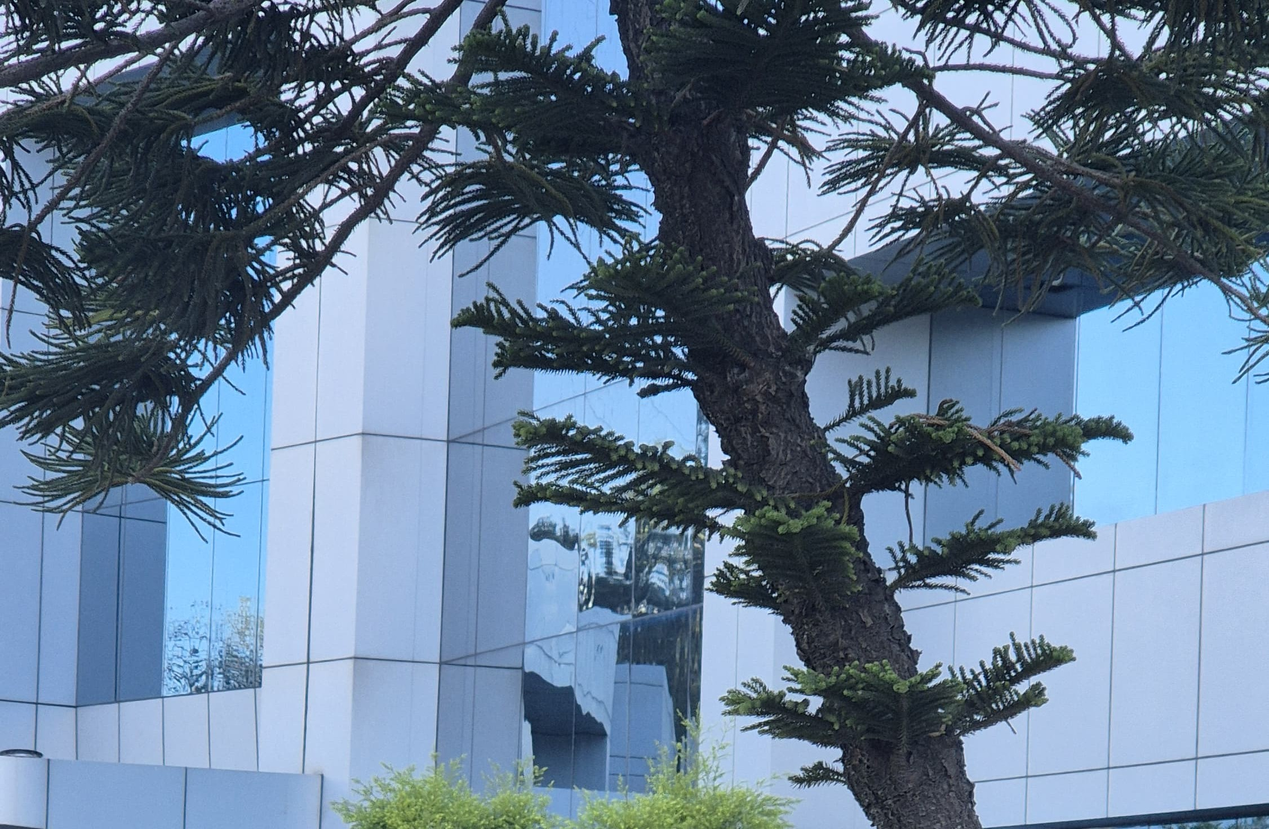
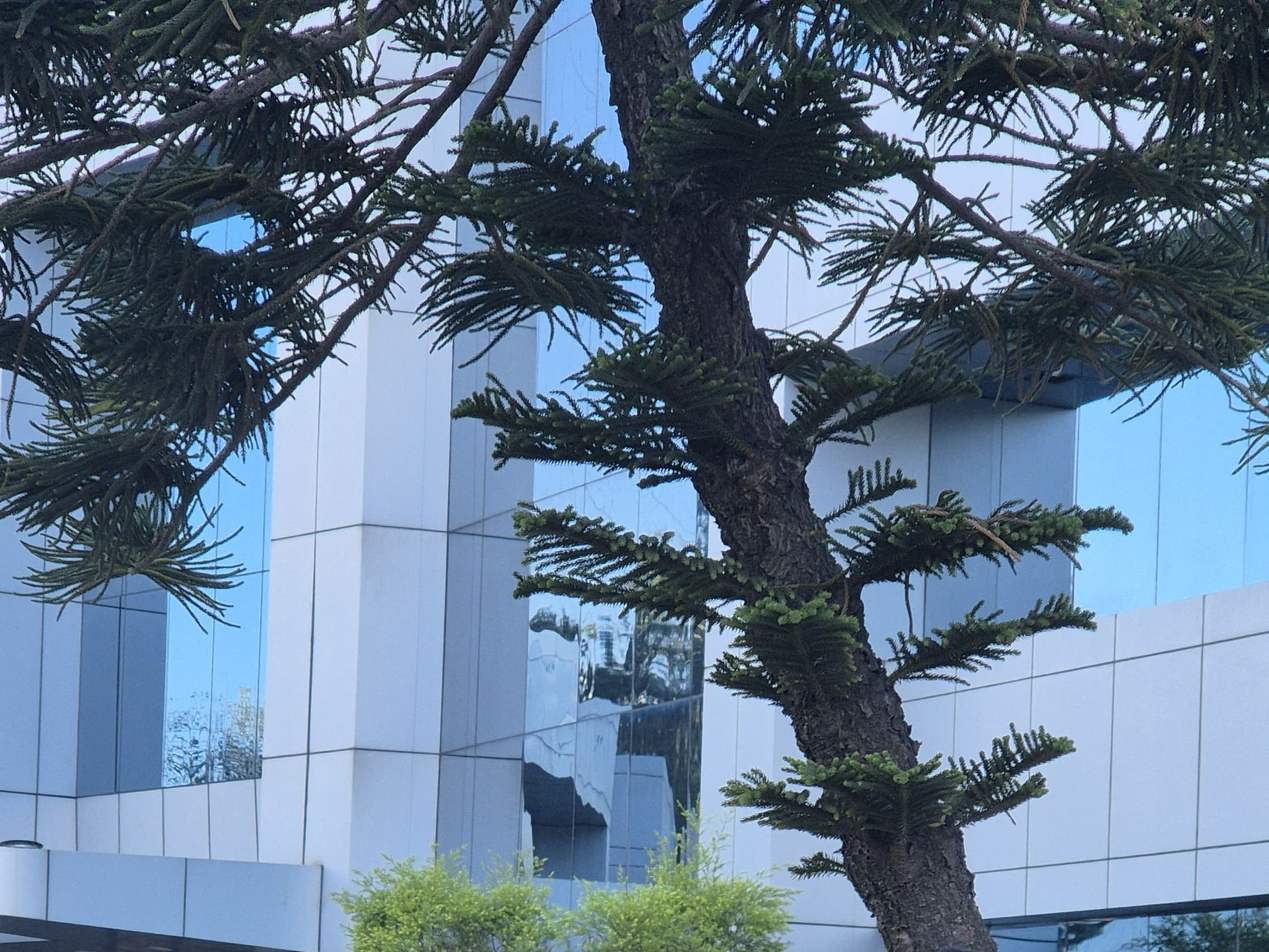
change img

diff --git a/index.html b/index.html
@@ -68,7 +68,7 @@
   <section id="hero" class="d-flex flex-column justify-content-center align-items-center">
     <div class="hero-container" data-aos="fade-in">
       <h1>Mahak Mandlecha</h1>
-      <p>I'm a <span class="typed" data-typed-items="Java Developer, GCP Certified, "></span></p>
+      <p>I'm a <span class="typed" data-typed-items="Java Developer, GCP Certified Engineer, "></span></p>
     </div>
   </section>
   <!-- End Hero -->
